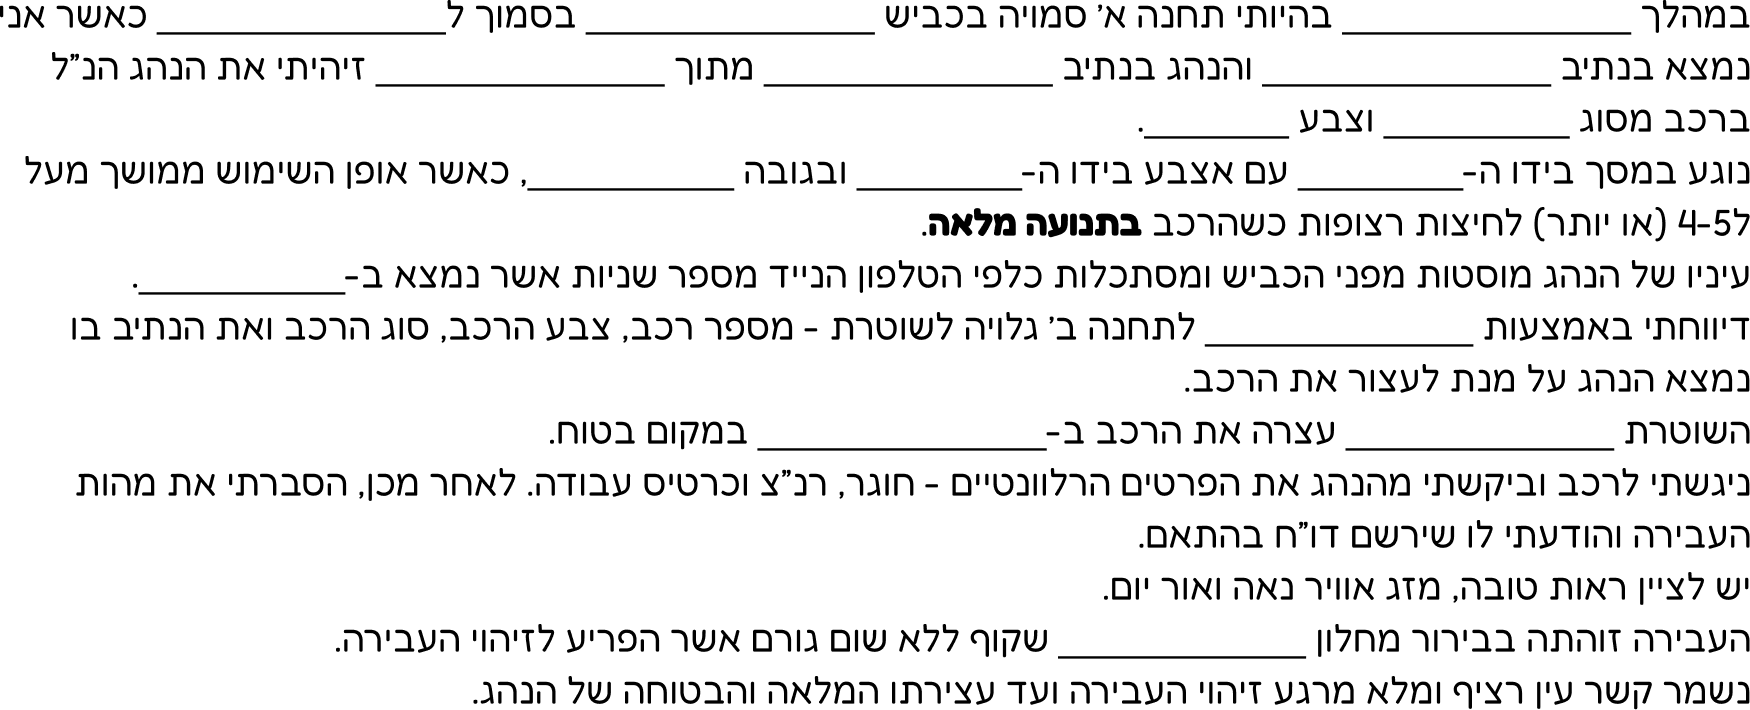
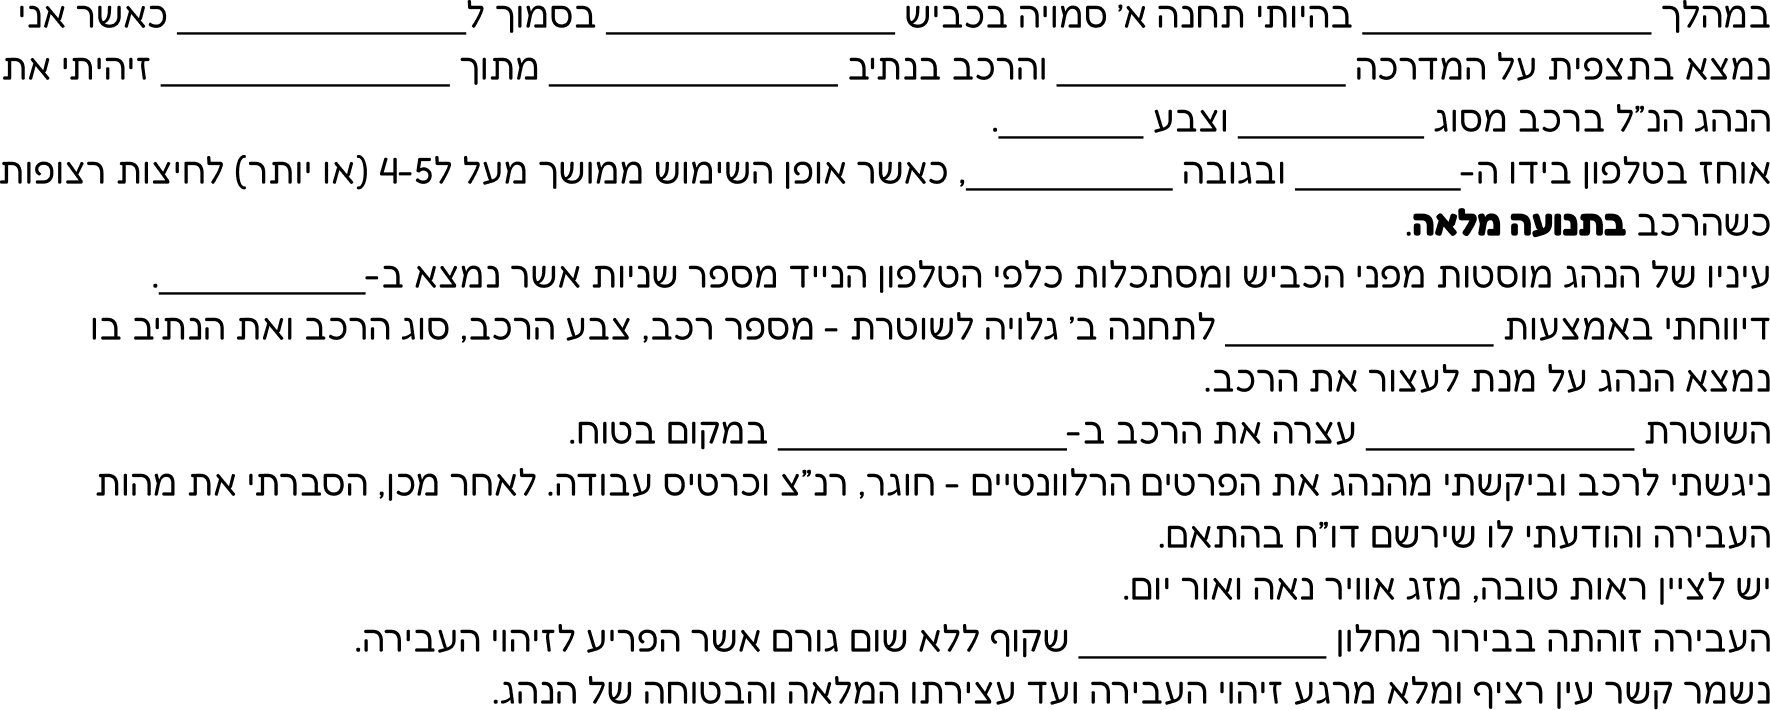
05/08/26 changes :( last?

diff --git a/src/pages/ReportFillSlide/reportPages/BeidatzReportPage2.jsx b/src/pages/ReportFillSlide/reportPages/BeidatzReportPage2.jsx
@@ -2,6 +2,8 @@ import beidatz2 from "../../../assets/בידצ2.jpg";
 import danisHatima from "../../../assets/danis-hatima.png";
 import AvivsHatima from "../../../assets/Avivs-hatima.png";
 import Text from "../../../assets/beidatz-2-text-format.png";
+import dargaDani from "../../../assets/רבט.png";
+import personalNumberDani from "../../../assets/9694646.png";
 
 function BeidatzReportPage2({
   formValues = {},
@@ -243,7 +245,7 @@ function BeidatzReportPage2({
           )}
 
           {/* === מספר אישי השוטר - מספרים === */}
-          <rect
+          {/* <rect
             className="cls-1"
             x="1564"
             y="2339.87"
@@ -274,10 +276,10 @@ function BeidatzReportPage2({
                 disabled={isFieldLocked("beidatzSecondOfficerPersonalNumber")}
               />
             </div>
-          </foreignObject>
+          </foreignObject> */}
 
           {/* === דרגה השוטר - טקסט === */}
-          <rect
+          {/* <rect
             className="cls-1"
             x="1424.7"
             y="2339.87"
@@ -303,7 +305,7 @@ function BeidatzReportPage2({
                 disabled={isFieldLocked("beidatzSecondOfficerRank")}
               />
             </div>
-          </foreignObject>
+          </foreignObject> */}
 
           {/* === שם פרטי השוטר - טקסט === */}
           <rect
@@ -423,13 +425,13 @@ function BeidatzReportPage2({
 
           <rect
             className="cls-1"
-            x="776.11"
+            x="788.11"
             y="1152.91"
             width="290.89"
             height="42.26"
             style={{ pointerEvents: "none" }}
           />
-          <foreignObject x="776.11" y="1152.91" width="290.89" height="42.26">
+          <foreignObject x="788.11" y="1152.91" width="290.89" height="42.26">
             <div
               xmlns="http://www.w3.org/1999/xhtml"
               className="svg-input-host"
@@ -450,13 +452,13 @@ function BeidatzReportPage2({
 
           <rect
             className="cls-1"
-            x="344.11"
+            x="360.11"
             y="1152.91"
             width="290.89"
             height="42.26"
             style={{ pointerEvents: "none" }}
           />
-          <foreignObject x="344.11" y="1152.91" width="290.89" height="42.26">
+          <foreignObject x="360.11" y="1152.91" width="290.89" height="42.26">
             <div
               xmlns="http://www.w3.org/1999/xhtml"
               className="svg-input-host"
@@ -477,13 +479,13 @@ function BeidatzReportPage2({
 
           <rect
             className="cls-1"
-            x="1453.46"
+            x="1240.46"
             y="1205.74"
             width="290.89"
             height="42.26"
             style={{ pointerEvents: "none" }}
           />
-          <foreignObject x="1453.46" y="1205.74" width="290.89" height="42.26">
+          <foreignObject x="1240.46" y="1205.74" width="290.89" height="42.26">
             <div
               xmlns="http://www.w3.org/1999/xhtml"
               className="svg-input-host"
@@ -504,13 +506,13 @@ function BeidatzReportPage2({
 
           <rect
             className="cls-1"
-            x="954.54"
+            x="735.54"
             y="1205.74"
             width="290.89"
             height="42.26"
             style={{ pointerEvents: "none" }}
           />
-          <foreignObject x="954.54" y="1205.74" width="290.89" height="42.26">
+          <foreignObject x="735.54" y="1205.74" width="290.89" height="42.26">
             <div
               xmlns="http://www.w3.org/1999/xhtml"
               className="svg-input-host"
@@ -531,13 +533,13 @@ function BeidatzReportPage2({
 
           <rect
             className="cls-1"
-            x="565.98"
+            x="345.98"
             y="1205.74"
             width="290.89"
             height="42.26"
             style={{ pointerEvents: "none" }}
           />
-          <foreignObject x="565.98" y="1205.74" width="290.89" height="42.26">
+          <foreignObject x="345.98" y="1205.74" width="290.89" height="42.26">
             <div
               xmlns="http://www.w3.org/1999/xhtml"
               className="svg-input-host"
@@ -558,13 +560,13 @@ function BeidatzReportPage2({
 
           <rect
             className="cls-1"
-            x="1574"
+            x="1414"
             y="1258.57"
             width="186.78"
             height="42.26"
             style={{ pointerEvents: "none" }}
           />
-          <foreignObject x="1574" y="1258.57" width="186.78" height="42.26">
+          <foreignObject x="1414" y="1258.57" width="186.78" height="42.26">
             <div
               xmlns="http://www.w3.org/1999/xhtml"
               className="svg-input-host"
@@ -585,13 +587,13 @@ function BeidatzReportPage2({
 
           <rect
             className="cls-1"
-            x="1335.7"
+            x="1178.7"
             y="1258.57"
             width="144.52"
             height="42.26"
             style={{ pointerEvents: "none" }}
           />
-          <foreignObject x="1335.7" y="1258.57" width="144.52" height="42.26">
+          <foreignObject x="1178.7" y="1258.57" width="144.52" height="42.26">
             <div
               xmlns="http://www.w3.org/1999/xhtml"
               className="svg-input-host"
@@ -612,13 +614,13 @@ function BeidatzReportPage2({
 
           <rect
             className="cls-1"
-            x="1489.48"
+            x="1470.48"
             y="1311.39"
             width="163.3"
             height="42.26"
             style={{ pointerEvents: "none" }}
           />
-          <foreignObject x="1489.48" y="1311.39" width="163.3" height="42.26">
+          <foreignObject x="1470.48" y="1311.39" width="163.3" height="42.26">
             <div
               xmlns="http://www.w3.org/1999/xhtml"
               className="svg-input-host"
@@ -637,7 +639,7 @@ function BeidatzReportPage2({
             </div>
           </foreignObject>
 
-          <rect
+          {/* <rect
             className="cls-1"
             x="1049.26"
             y="1311.39"
@@ -645,7 +647,7 @@ function BeidatzReportPage2({
             height="42.26"
             style={{ pointerEvents: "none" }}
           />
-          <foreignObject x="1049.26" y="1311.39" width="163.3" height="42.26">
+          <foreignObject x="1169.26" y="1311.39" width="163.3" height="42.26">
             <div
               xmlns="http://www.w3.org/1999/xhtml"
               className="svg-input-host"
@@ -662,17 +664,17 @@ function BeidatzReportPage2({
                 readOnly={isFieldLocked("beidatzPage2ReportDetail10")}
               />
             </div>
-          </foreignObject>
+          </foreignObject> */}
 
           <rect
             className="cls-1"
-            x="719.57"
+            x="1146.57"
             y="1313.39"
             width="206.61"
             height="42.26"
             style={{ pointerEvents: "none" }}
           />
-          <foreignObject x="719.57" y="1313.39" width="206.61" height="42.26">
+          <foreignObject x="1146.57" y="1313.39" width="206.61" height="42.26">
             <div
               xmlns="http://www.w3.org/1999/xhtml"
               className="svg-input-host"
@@ -693,13 +695,13 @@ function BeidatzReportPage2({
 
           <rect
             className="cls-1"
-            x="1396.74"
+            x="1400.74"
             y="1469.87"
             width="267.83"
             height="42.26"
             style={{ pointerEvents: "none" }}
           />
-          <foreignObject x="1396.74" y="1469.87" width="267.83" height="42.26">
+          <foreignObject x="1400.74" y="1469.87" width="267.83" height="42.26">
             <div
               xmlns="http://www.w3.org/1999/xhtml"
               className="svg-input-host"
@@ -720,13 +722,13 @@ function BeidatzReportPage2({
 
           <rect
             className="cls-1"
-            x="1538.48"
+            x="1540.48"
             y="1576.35"
             width="267.83"
             height="42.26"
             style={{ pointerEvents: "none" }}
           />
-          <foreignObject x="1538.48" y="1576.35" width="267.83" height="42.26">
+          <foreignObject x="1540.48" y="1576.35" width="267.83" height="42.26">
             <div
               xmlns="http://www.w3.org/1999/xhtml"
               className="svg-input-host"
@@ -747,13 +749,13 @@ function BeidatzReportPage2({
 
           <rect
             className="cls-1"
-            x="949.48"
+            x="960.48"
             y="1576.35"
             width="284.42"
             height="42.26"
             style={{ pointerEvents: "none" }}
           />
-          <foreignObject x="949.48" y="1576.35" width="284.42" height="42.26">
+          <foreignObject x="960.48" y="1576.35" width="284.42" height="42.26">
             <div
               xmlns="http://www.w3.org/1999/xhtml"
               className="svg-input-host"
@@ -774,13 +776,13 @@ function BeidatzReportPage2({
 
           <rect
             className="cls-1"
-            x="321.83"
+            x="348.83"
             y="1419.7"
             width="203.03"
             height="42.26"
             style={{ pointerEvents: "none" }}
           />
-          <foreignObject x="321.83" y="1419.7" width="203.03" height="42.26">
+          <foreignObject x="348.83" y="1419.7" width="203.03" height="42.26">
             <div
               xmlns="http://www.w3.org/1999/xhtml"
               className="svg-input-host"
@@ -833,6 +835,18 @@ function BeidatzReportPage2({
             transform="translate(192 1161.65)"
             xlinkHref={Text}
             style={{ pointerEvents: "none" }}
+          />
+          <image
+            width="83"
+            height="36"
+            transform="translate(1439.17 2348.83)"
+            xlinkHref={dargaDani}
+          />
+          <image
+            width="243"
+            height="34"
+            transform="translate(1552.17 2348.83)"
+            xlinkHref={personalNumberDani}
           />
         </g>
       </g>

diff --git a/src/pages/ReportFillSlide/reportPages/BeidatzReportPage1.jsx b/src/pages/ReportFillSlide/reportPages/BeidatzReportPage1.jsx
@@ -5,6 +5,8 @@ import FirstName from "../../../assets/שיר.png";
 import shirsHatima from "../../../assets/shirs-hatima.png";
 import beidatzPaper from "../../../assets/בידצ1.jpg";
 import danisHatima from "../../../assets/danis-hatima.png";
+import dargaDani from "../../../assets/רבט.png";
+import personalNumberDani from "../../../assets/9694646.png";
 
 function BeidatzReportPage1({
   formValues = {},
@@ -1915,7 +1917,7 @@ function BeidatzReportPage1({
           </foreignObject>
 
           {/* מספר אישי השוטר - טקסט מספרים */}
-          <rect
+          {/* <rect
             className="cls-1"
             x="1170.28"
             y="2046.54"
@@ -1941,10 +1943,10 @@ function BeidatzReportPage1({
                 disabled={isFieldLocked("beidatzOfficerPersonalNumber")}
               />
             </div>
-          </foreignObject>
+          </foreignObject> */}
 
           {/* דרגה השוטר - טקסט */}
-          <rect
+          {/* <rect
             className="cls-1"
             x="847.07"
             y="2046.54"
@@ -1970,7 +1972,7 @@ function BeidatzReportPage1({
                 disabled={isFieldLocked("beidatzOfficerRank")}
               />
             </div>
-          </foreignObject>
+          </foreignObject> */}
 
           {/* שם משפחה השוטר - טקסט */}
           <rect
@@ -2350,7 +2352,7 @@ function BeidatzReportPage1({
                 disabled={isFieldLocked("beidatzPermit")}
               >
                 <option value="">בחר היתר...</option>
-                <option value="35">35</option>
+                {/* <option value="35">35</option> */}
                 <option value="no">ללא</option>
               </select>
             </div>
@@ -2428,6 +2430,18 @@ function BeidatzReportPage1({
             height="369"
             transform="translate(183.62 2102.18) scale(.18)"
             xlinkHref={shirsHatima}
+          />
+          <image
+            width="83"
+            height="36"
+            transform="translate(969.17 2054.83)"
+            xlinkHref={dargaDani}
+          />
+          <image
+            width="243"
+            height="34"
+            transform="translate(1209.87 2057.83)"
+            xlinkHref={personalNumberDani}
           />
         </g>
       </g>

diff --git a/src/pages/ReportFillSlide/ReportFillSlide.jsx b/src/pages/ReportFillSlide/ReportFillSlide.jsx
@@ -98,6 +98,9 @@ const REPORTS_CONFIG = {
           `ש"ג, צריפין`,
           `.ש"ג צריפין`,
           ".ש''ג, צריפין",
+          ".שג, צריפין",
+          "שג, צריפין",
+          "שג צריפין",
           "קק",
         ],
         beidatzBase: ["בית ליד", "בית-ליד", "בית ליד.", "בית-ליד.", "קק"],
@@ -153,8 +156,8 @@ const REPORTS_CONFIG = {
       },
       requiredOnly: [
         // דף 1
-        "beidatzOfficerPersonalNumber",
-        "beidatzOfficerRank",
+        // "beidatzOfficerPersonalNumber",
+        // "beidatzOfficerRank",
         "isOfficerWitnessSignedBeidatz",
         "beidatzOffenseNature",
         "beidatzOffenseDetails",
@@ -163,8 +166,8 @@ const REPORTS_CONFIG = {
         "beidatzDriverResponse",
         "isDriverSignedBeidatz",
         "isOfficerPage2SignedBeidatz",
-        "beidatzSecondOfficerPersonalNumber",
-        "beidatzSecondOfficerRank",
+        // "beidatzSecondOfficerPersonalNumber",
+        // "beidatzSecondOfficerRank",
         "isSecondOfficerSignedBeidatz",
         "beidatzPage2ReportDetail1",
         "beidatzPage2ReportDetail2",
@@ -175,7 +178,7 @@ const REPORTS_CONFIG = {
         "beidatzPage2ReportDetail7",
         "beidatzPage2ReportDetail8",
         "beidatzPage2ReportDetail9",
-        "beidatzPage2ReportDetail10",
+        // "beidatzPage2ReportDetail10",
         "beidatzPage2ReportDetail11",
         "beidatzPage2ReportDetail12",
         "beidatzPage2ReportDetail13",
